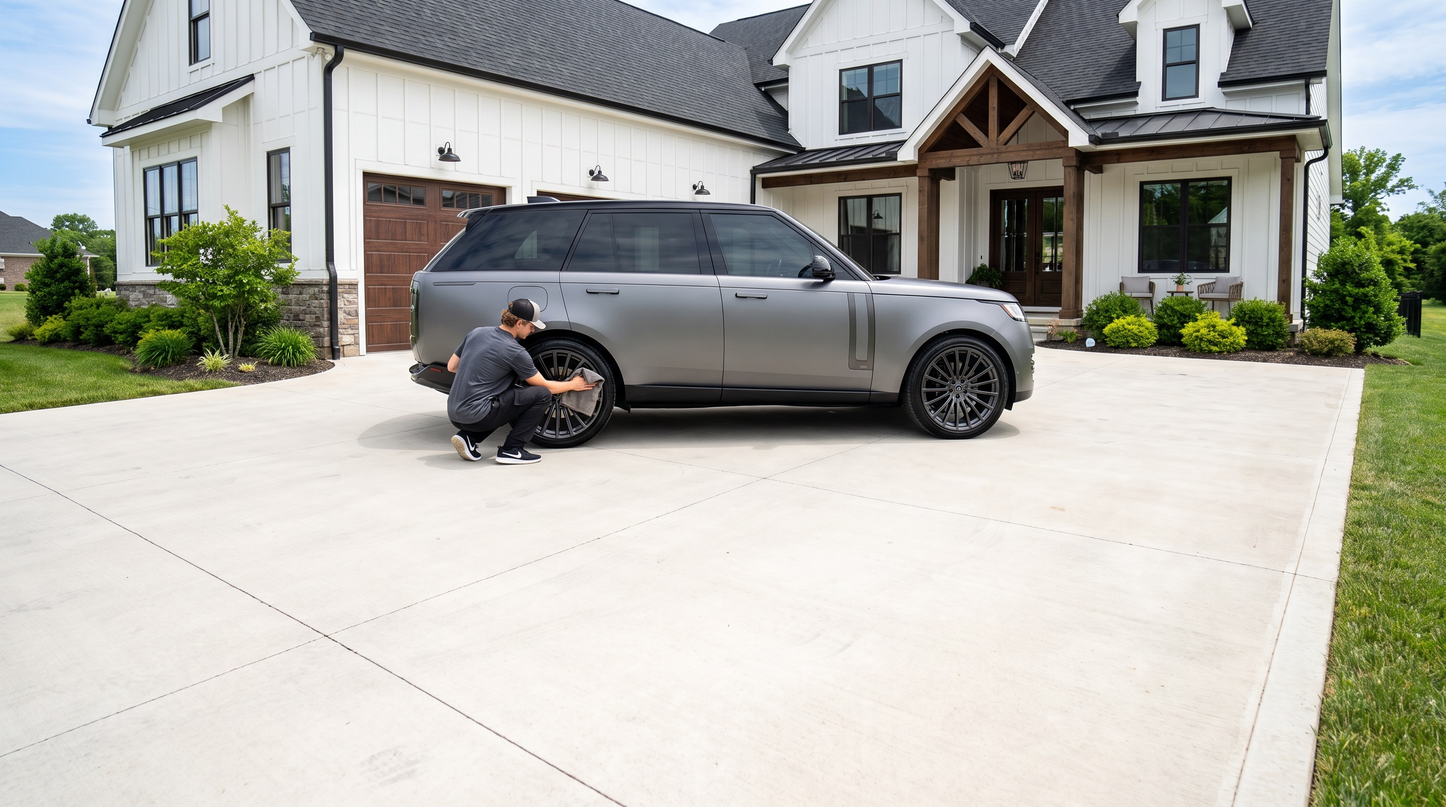
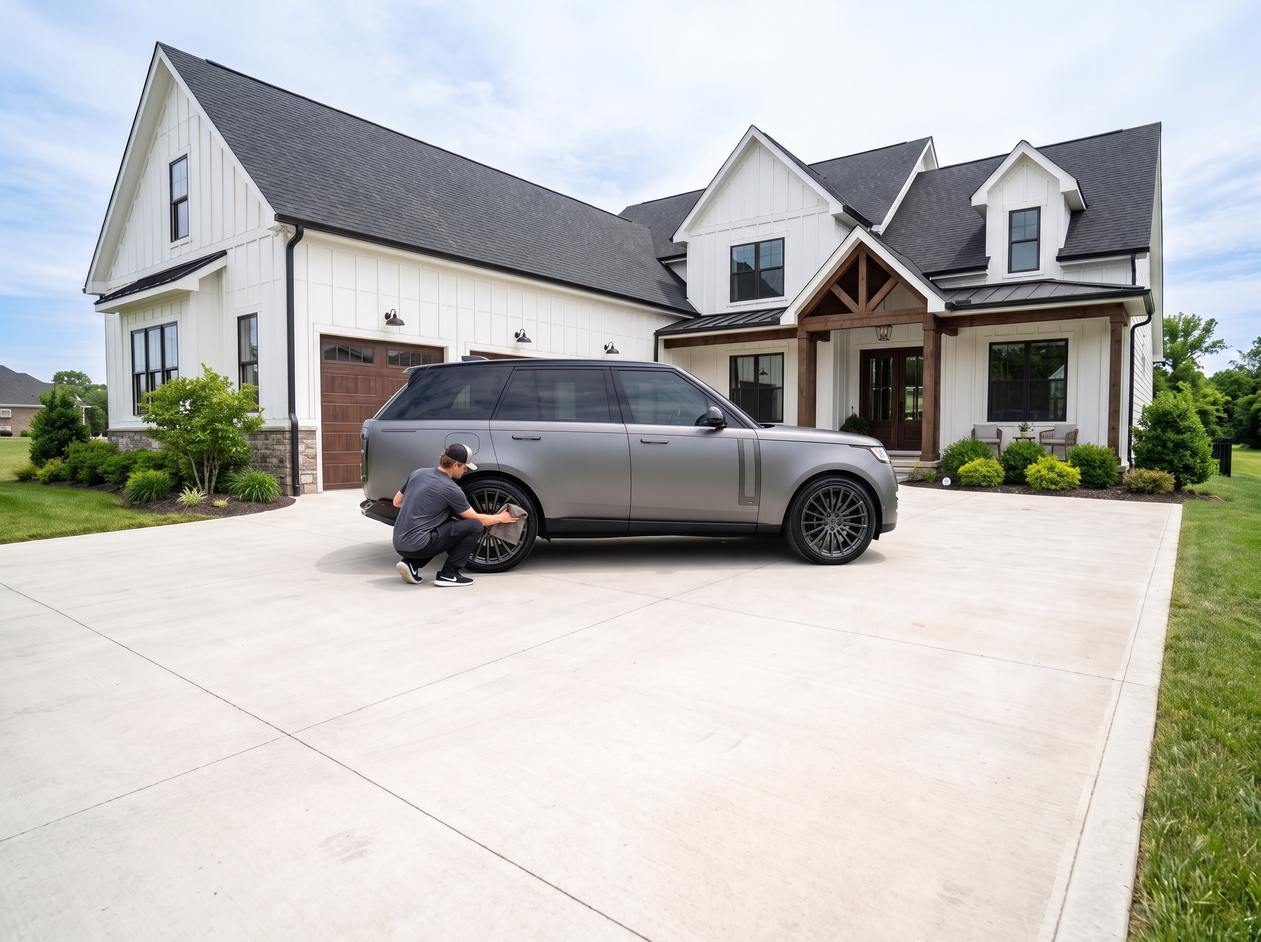
Homepage hero: extend the image with sky above (outpaint to 4:3) and shift the crop up so the car sits below the headline instead of behind it

diff --git a/home-new.html b/home-new.html
@@ -107,7 +107,7 @@
     .hero { position:relative; isolation:isolate; margin-top:-128px; padding-top:128px; min-height:100vh; display:flex; align-items:stretch; justify-content:center; text-align:center; overflow:hidden; }
     .scroll-cue { position:absolute; bottom:1.4rem; left:50%; z-index:4; color:var(--ink); animation:bob 1.6s ease-in-out infinite; }
     @keyframes bob { 0%,100% { transform:translate(-50%,0); } 50% { transform:translate(-50%,10px); } }
-    .hero-img { position:absolute; inset:0; width:100%; height:100%; object-fit:cover; object-position:center 40%; }
+    .hero-img { position:absolute; inset:0; width:100%; height:100%; object-fit:cover; object-position:center 12%; }
     .hero-scrim { position:absolute; inset:0; background:linear-gradient(180deg, rgba(255,255,255,0) 0%, rgba(255,255,255,0) 87%, rgba(255,255,255,.04) 89%, rgba(255,255,255,.12) 91%, rgba(255,255,255,.26) 93%, rgba(255,255,255,.46) 95%, rgba(255,255,255,.68) 96.5%, rgba(255,255,255,.86) 98%, rgba(255,255,255,.97) 99%, #fff 100%); }
     .hero-content { position:relative; z-index:2; width:100%; max-width:1300px; padding:1.5rem 2rem 5.5rem; display:flex; flex-direction:column; align-items:center; justify-content:space-between; }
     .hero-top { display:flex; flex-direction:column; align-items:center; }
